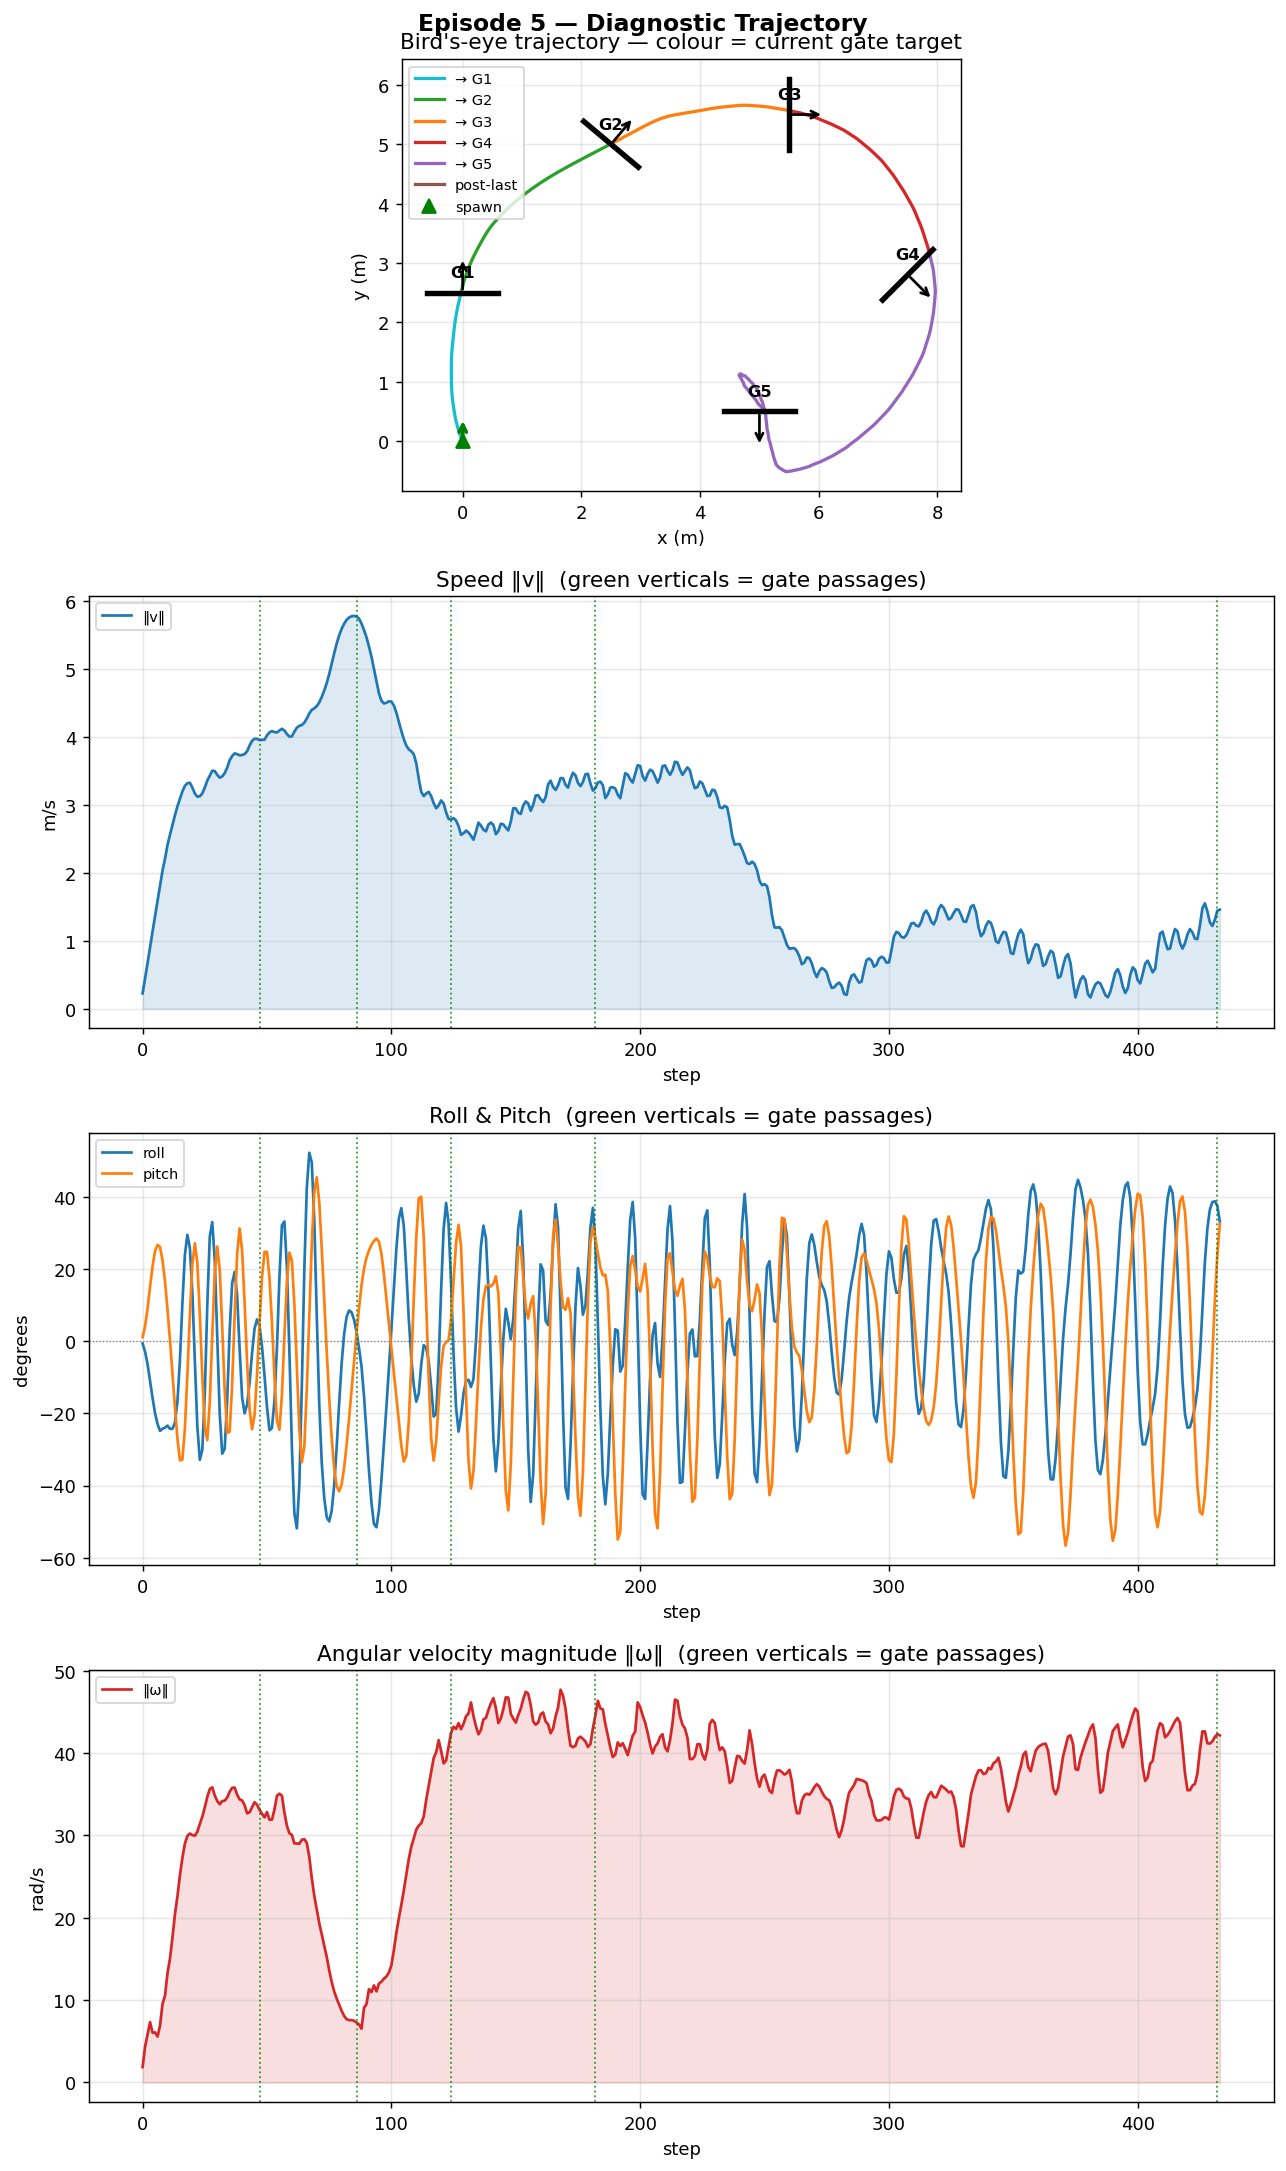
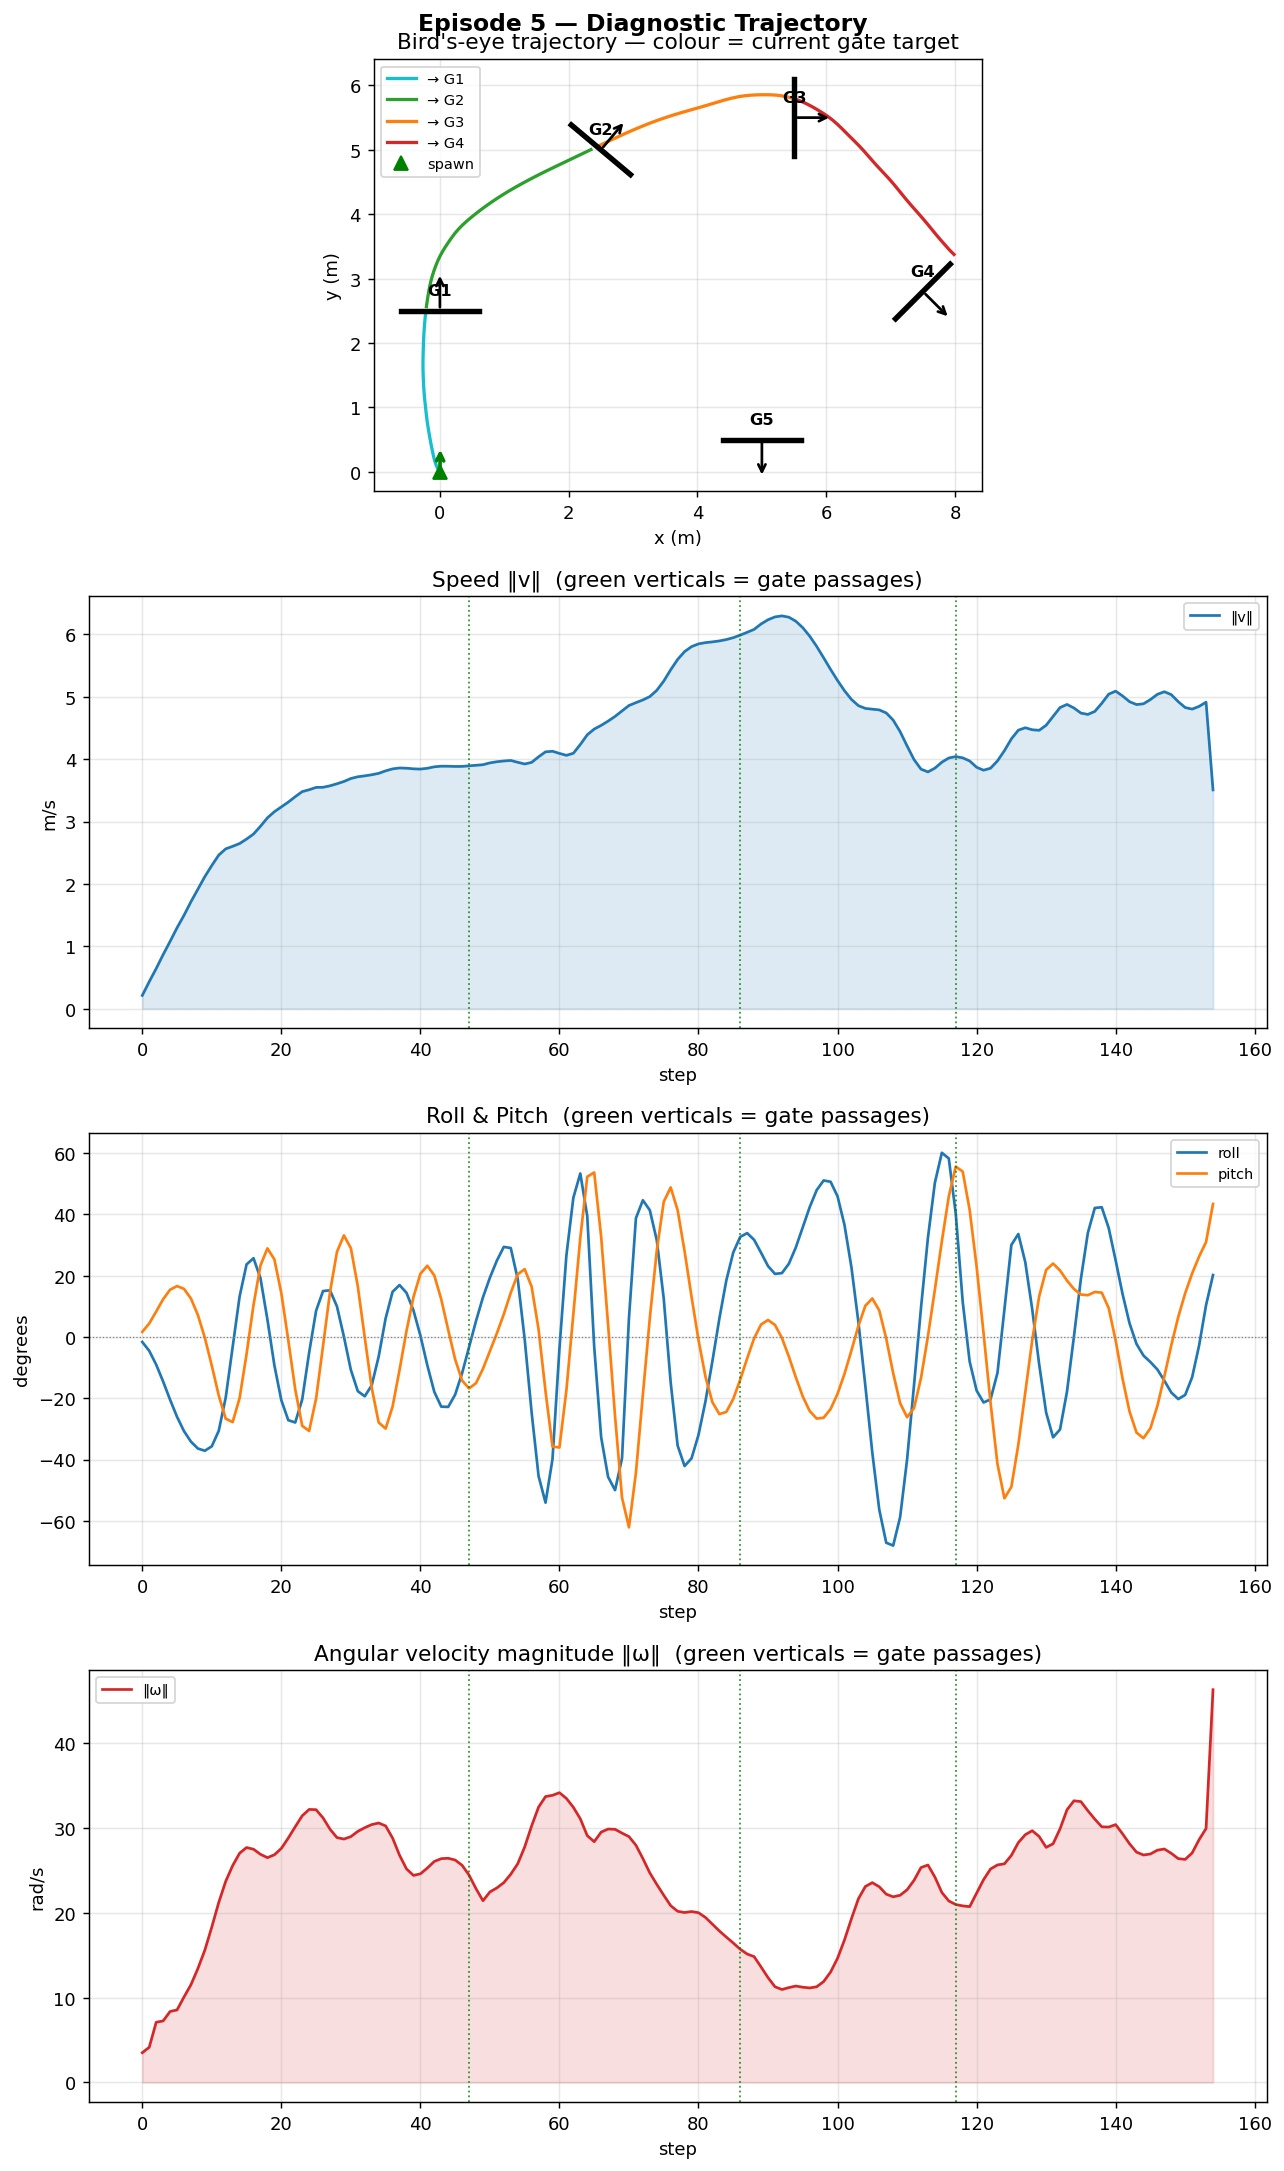
penalize body rate

diff --git a/envs/reward.py b/envs/reward.py
@@ -45,8 +45,8 @@ class RewardComputer:
     LAMBDA_1: float = 1.0     # progress: distance-delta weight
     LAMBDA_2: float = 0.02    # perception: gate-in-FOV weight
     LAMBDA_3: float = -20.0   # perception: δ_cam^4 shaping exponent
-    LAMBDA_4: float = -4e-4   # body-rate: ‖a_t^ω‖² penalty weight
-    LAMBDA_5: float = -1e-1   # jerk: ‖a_t − a_{t-1}‖² penalty weight # TODO: testing a bigger penalty 
+    LAMBDA_4: float = -4e-3   # body-rate: ‖a_t^ω‖² penalty weight
+    LAMBDA_5: float = -1e-3   # jerk: ‖a_t − a_{t-1}‖² penalty weight # TODO: testing a bigger penalty 
 
     # ── Terminal reward ────────────────────────────────────────────────────
     # Paper: subtract r_crash=5.0; implemented as adding CRASH_PENALTY=−5.0.
